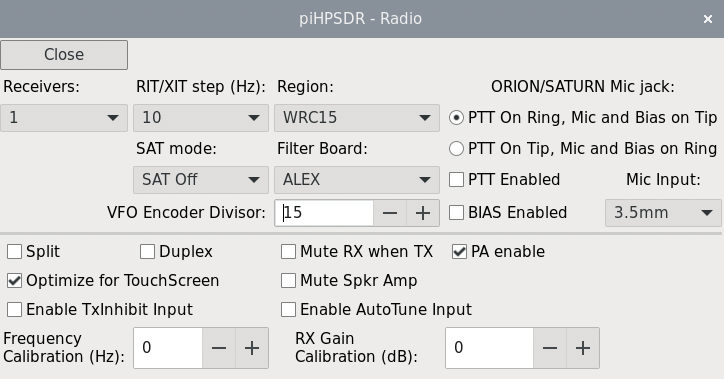
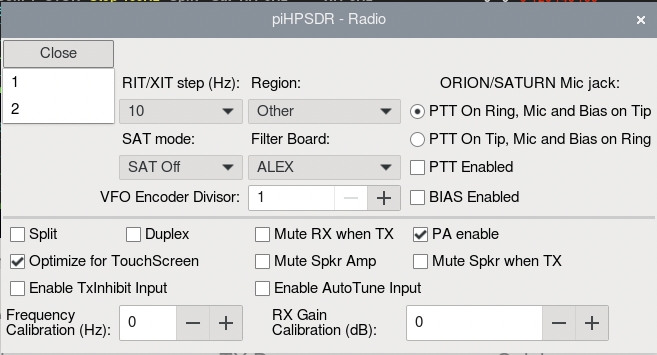
Added an option to disable the ANAN-7000/G2 speaker amplifier during transmit only.

diff --git a/release/LatexManual/piHPSDR-Manual.tex b/release/LatexManual/piHPSDR-Manual.tex
@@ -1323,6 +1323,14 @@ If checked, the audio amplifier driving the speakers (either the speaker jacks i
 back panel, or the built-in speakers) is disabled. This does not affect the audio signal
 at the headphone jack.
 
+\rett{Mute Spkr when TX} This box only appears on Anan-7000/8000 and G2 radios using protocol 2.
+If checked, it mutes the audio amplifier driving the speakers upon transmit only.
+Note that this box has no effect if TXing in CW mode or TUNE-ing such that a side tone
+is not muted. It is generally \textit{not recommended} to use this option, because the
+speakers emit an audible ``pop'' each time the speaker amplifier is muted or un-muted.
+Some users have reported RFI problems with the speakers and this option has been added
+to make it possible to mute the speakers during transmit only.
+
 \rett{Enable TxInhibit Input} This box only appears for HPSDR (and not for SoapySDR)
 radios.
 For  protocol 1, TxInhibit is signalled for most radios by the Hermes IO1 bit being
@@ -2729,7 +2737,7 @@ zero if the SWR exceeds the threshold.
 
 \rett{SWR-dependent Sidetone with TUNE} If this box is checked, there will be a side tone while TUNE-ing.
 This side tone is similar to a string of dots or dashes, separated by pauses which are 50 msec long.
-The SWR is encoded both in the length and the frequency of the "dashes".  The higher 
+The SWR is encoded both in the length and the frequency of the "dashes".  The higher
 the SWR, the higher (with a limit of 5000 Hz) the pitch, an ideal 1:1 SWR results in a minimum pitch
 of 500 Hz. Likewise, the "dot/dash" length is 50 msec for this ideal SWR and becomes longer as the SWR
 gets larger. So for ideal SWR, the side tones sounds like a string of CW dots at 24 wpm at a pitch of

diff --git a/src/radio.c b/src/radio.c
@@ -169,8 +169,9 @@ int hl2_cl1_input = 0;
 int anan10E = 0;
 
 int adc0_filter_bypass = 0; // Bypass ADC0 filters on receive
-int adc1_filter_bypass = 0; // Bypass ADC1 filters on receiver  (ANAN-7000/8000/G2)
-int mute_spkr_amp = 0;      // Mute audio amplifier in radio    (ANAN-7000, G2)
+int adc1_filter_bypass = 0; // Bypass ADC1 filters on receiver              (ANAN-7000/8000/G2)
+int mute_spkr_amp = 0;      // Mute audio amplifier in radio                (ANAN-7000, G2)
+int mute_spkr_xmit= 0;      // Mute audio amplifier in radio upon transmit  (ANAN-7000, G2)
 
 int tx_out_of_band_allowed = 0;
 
@@ -2842,6 +2843,7 @@ static void radio_restore_state() {
     GetPropI0("radio.display_warnings",                      display_warnings);
     GetPropI0("radio.display_pacurr",                        display_pacurr);
     GetPropI0("mute_spkr_amp",                               mute_spkr_amp);
+    GetPropI0("mute_spkr_xmit",                              mute_spkr_xmit);
     GetPropI0("adc0_filter_bypass",                          adc0_filter_bypass);
     GetPropI0("adc1_filter_bypass",                          adc1_filter_bypass);
 #ifdef SATURN
@@ -3041,6 +3043,7 @@ void radio_save_state() {
     SetPropI0("radio.display_warnings",                      display_warnings);
     SetPropI0("radio.display_pacurr",                        display_pacurr);
     SetPropI0("mute_spkr_amp",                               mute_spkr_amp);
+    SetPropI0("mute_spkr_xmit",                              mute_spkr_xmit);
     SetPropI0("adc0_filter_bypass",                          adc0_filter_bypass);
     SetPropI0("adc1_filter_bypass",                          adc1_filter_bypass);
 #ifdef SATURN

diff --git a/src/client_server.c b/src/client_server.c
@@ -728,6 +728,7 @@ void send_radiomenu(int sock) {
   data.mic_bias_enabled = mic_bias_enabled;
   data.pa_enabled = pa_enabled;
   data.mute_spkr_amp = mute_spkr_amp;
+  data.mute_spkr_xmit = mute_spkr_xmit;
   data.hl2_audio_codec = hl2_audio_codec;
   data.soapy_iqswap = soapy_iqswap;
   data.enable_tx_inhibit = enable_tx_inhibit;
@@ -853,6 +854,7 @@ void send_radio_data(int sock) {
   data.OCtune = OCtune;
   data.mute_rx_while_transmitting = mute_rx_while_transmitting;
   data.mute_spkr_amp = mute_spkr_amp;
+  data.mute_spkr_xmit = mute_spkr_xmit;
   data.adc0_filter_bypass = adc0_filter_bypass;
   data.adc1_filter_bypass = adc1_filter_bypass;
   data.split = split;
@@ -3030,6 +3032,7 @@ static void *client_thread(void* arg) {
       OCtune = data.OCtune;
       mute_rx_while_transmitting = data.mute_rx_while_transmitting;
       mute_spkr_amp = data.mute_spkr_amp;
+      mute_spkr_xmit = data.mute_spkr_xmit;
       adc0_filter_bypass = data.adc0_filter_bypass;
       adc1_filter_bypass = data.adc1_filter_bypass;
       split = data.split;
@@ -4615,6 +4618,7 @@ static int remote_command(void *data) {
     mic_bias_enabled = command->mic_bias_enabled;
     pa_enabled = command->pa_enabled;
     mute_spkr_amp = command->mute_spkr_amp;
+    mute_spkr_xmit = command->mute_spkr_xmit;
     hl2_audio_codec = command->hl2_audio_codec;
     soapy_iqswap = command->soapy_iqswap;
     enable_tx_inhibit = command->enable_tx_inhibit;

diff --git a/src/client_server.h b/src/client_server.h
@@ -140,7 +140,7 @@ enum _header_type_enum {
   CLIENT_SERVER_COMMANDS,
 };
 
-#define CLIENT_SERVER_VERSION 0x01000011 // 32-bit version number
+#define CLIENT_SERVER_VERSION 0x01000012 // 32-bit version number
 #define SPECTRUM_DATA_SIZE 4096          // Maximum width of a panadapter
 #define AUDIO_DATA_SIZE 1024             // 1024 stereo samples
 
@@ -190,6 +190,7 @@ typedef struct __attribute__((__packed__)) _radiomenu_data {
   uint8_t  mic_bias_enabled;
   uint8_t  pa_enabled;
   uint8_t  mute_spkr_amp;
+  uint8_t  mute_spkr_xmit;
   uint8_t  hl2_audio_codec;
   uint8_t  soapy_iqswap;
   uint8_t  enable_tx_inhibit;
@@ -343,6 +344,7 @@ typedef struct __attribute__((__packed__)) _radio_data {
   uint8_t  OCtune;
   uint8_t  mute_rx_while_transmitting;
   uint8_t  mute_spkr_amp;
+  uint8_t  mute_spkr_xmit;
   uint8_t  adc0_filter_bypass;
   uint8_t  adc1_filter_bypass;
   uint8_t  split;

diff --git a/src/new_protocol.c b/src/new_protocol.c
@@ -914,7 +914,16 @@ static void new_protocol_high_priority() {
       high_priority_buffer_to_radio[1400] |= ANAN7000_HIPRIO1400_XVTR_OUT;
     }
 
-    if (mute_spkr_amp) {
+    //
+    // On ANAN-7000 and G2, one can "mute" the stereo amplifier. This affects speakers,
+    // headphone, and LineOut. Some have reported that distorted audio goes to the speakers
+    // upon transmit, so there is an option to mute the amplifier during TX only.
+    // However, if we expect a side tone from CW or TUNEing, "mute when tx" is ignored.
+    // Note that "Mute when TX" is not generally recommended, since the
+    // speakers emit a notable "pop" when the amp is switched on or off.
+    //
+    if (mute_spkr_amp ||
+        (mute_spkr_xmit && xmit && (txmode != modeCWL) && (txmode != modeCWU) && !transmitter->tune)) {
       //
       // Mute the amplifier of the built-in speakers
       //

diff --git a/src/radio_menu.c b/src/radio_menu.c
@@ -875,6 +875,12 @@ void radio_menu(GtkWidget *parent) {
     gtk_grid_attach(GTK_GRID(grid), ChkBtn, col, row, 1, 1);
     g_signal_connect(ChkBtn, "toggled", G_CALLBACK(toggle_cb), &mute_spkr_amp);
     col++;
+    ChkBtn = gtk_check_button_new_with_label("Mute Spkr when TX");
+    gtk_widget_set_name(ChkBtn, "boldlabel");
+    gtk_toggle_button_set_active (GTK_TOGGLE_BUTTON (ChkBtn), mute_spkr_xmit);
+    gtk_grid_attach(GTK_GRID(grid), ChkBtn, col, row, 1, 1);
+    g_signal_connect(ChkBtn, "toggled", G_CALLBACK(toggle_cb), &mute_spkr_xmit);
+    col++;
   }
   break;
 

diff --git a/src/radio.h b/src/radio.h
@@ -275,6 +275,7 @@ extern int anan10E;
 extern int adc0_filter_bypass;   // Bypass ADC0 filters on receive
 extern int adc1_filter_bypass;   // Bypass ADC1 filters on receiver  (ANAN-7000/8000/G2)
 extern int mute_spkr_amp;        // Mute audio amplifier in radio    (ANAN-7000, G2)
+extern int mute_spkr_xmit;       // Mute audio amplifier in radio upon transmitting (ANAN-7000, G2)
 
 extern int VFO_WIDTH;
 extern int VFO_HEIGHT;
